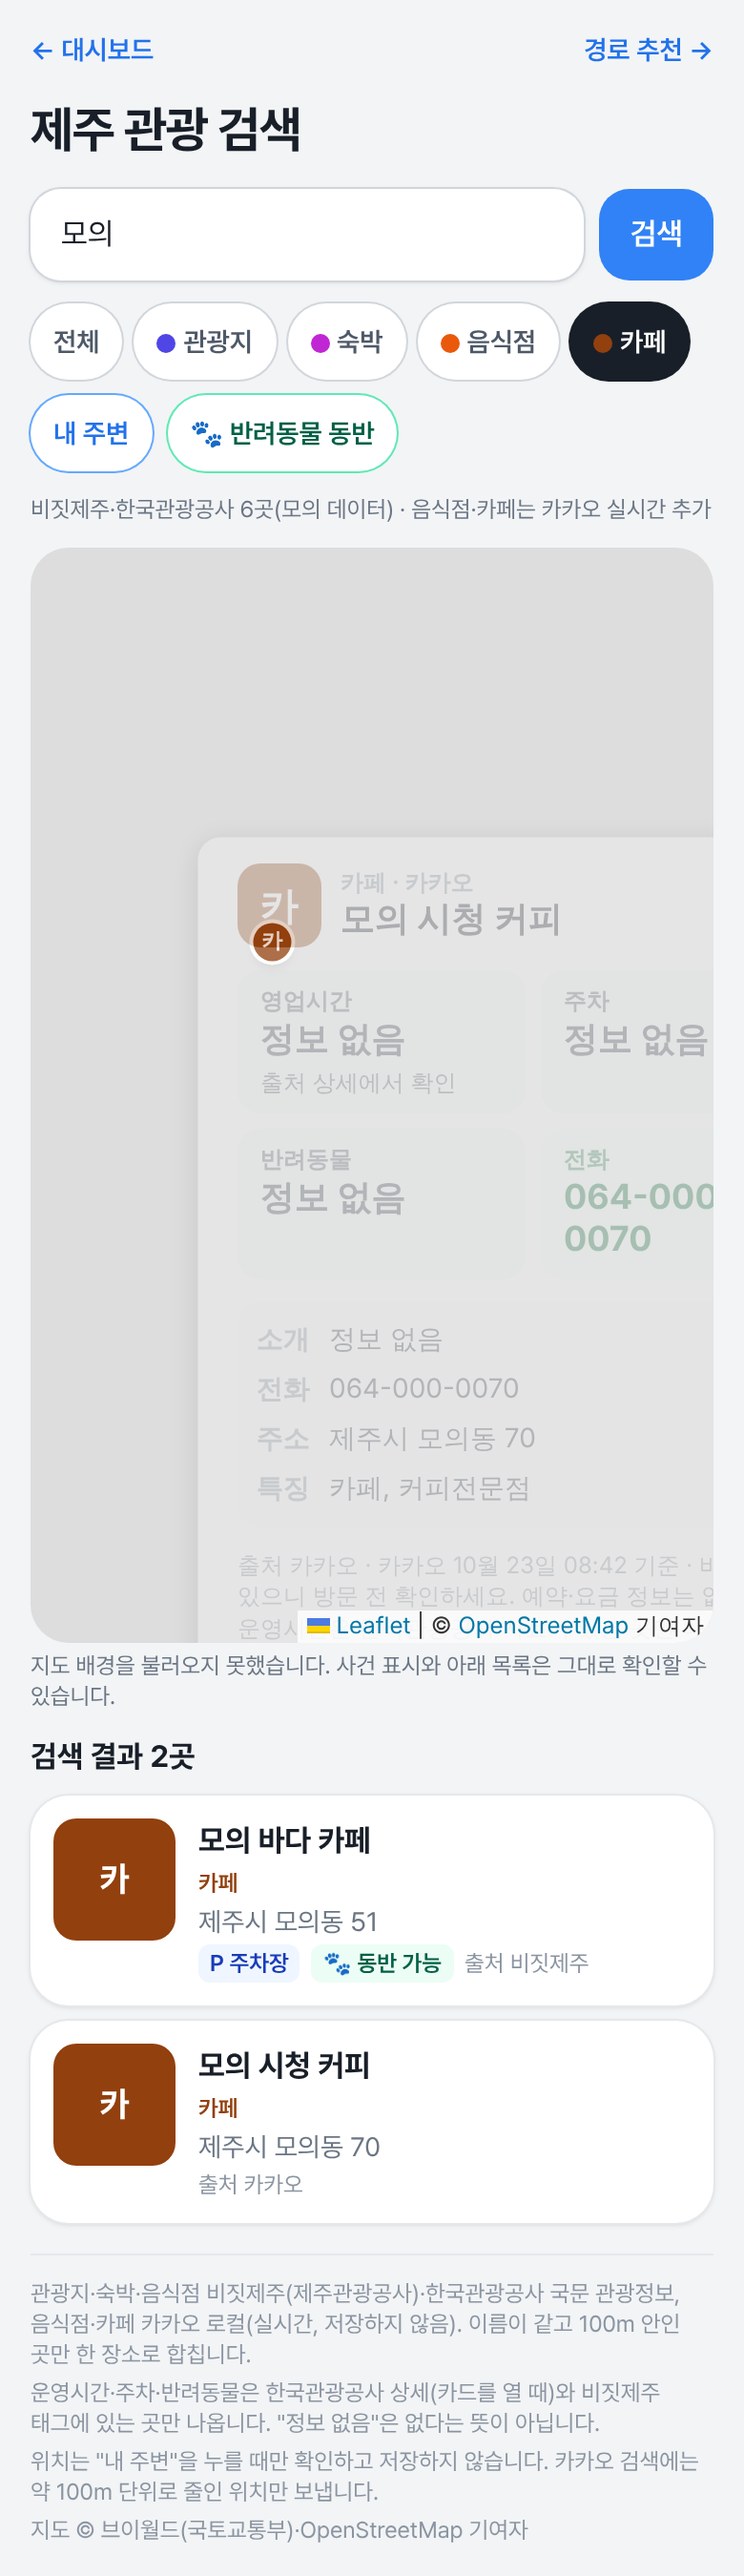
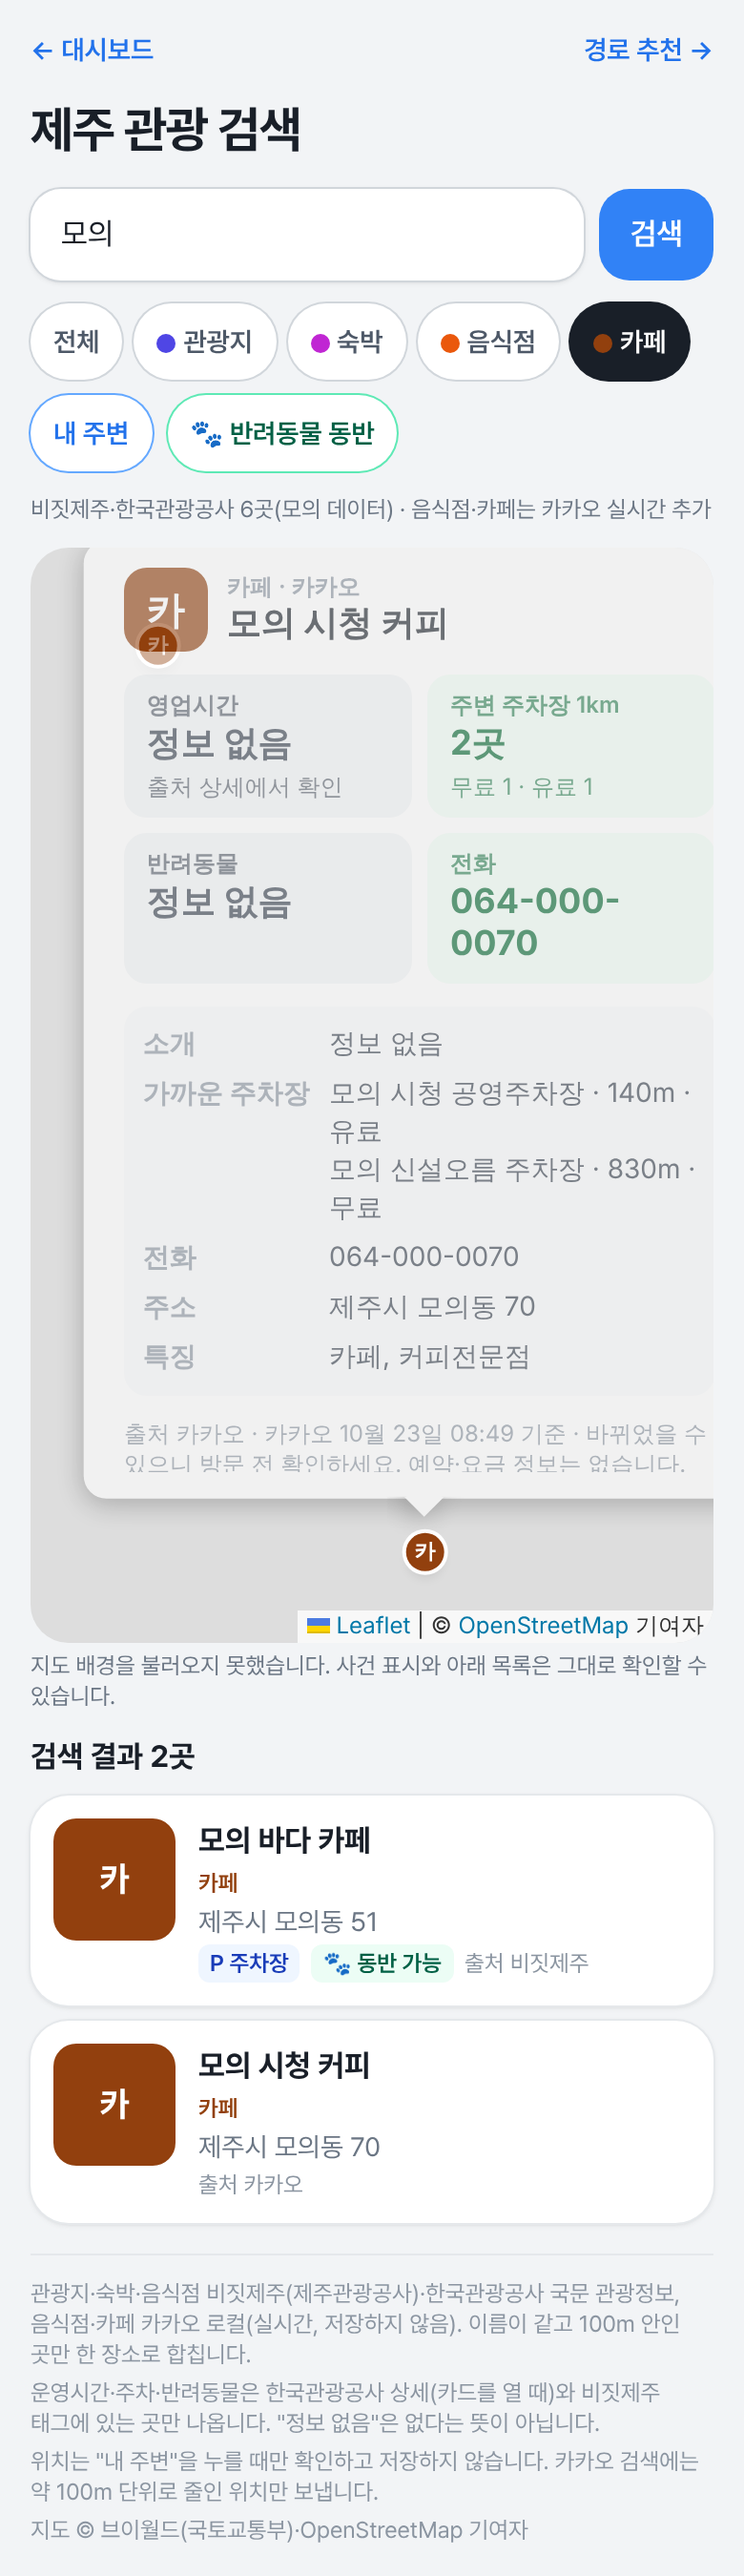
TASK-029: 주차 정보가 없으면 반경 1km 주차장 수·무료/유료·가까운 3곳(전국주차장정보표준데이터, 외부 호출 증가 없음)
사용자 "주차장 정보가 없을 경우 해당 위치 반경 1키로 주차장 검색해서 유료/무료 까지 표시"

Claude-Session: https://claude.ai/code/session_01Gur3aDTQeZh8Paf8Wfb4kJ

diff --git a/jeju-ai-traffic/web/src/features/search/searchCards.ts b/jeju-ai-traffic/web/src/features/search/searchCards.ts
@@ -1,6 +1,8 @@
 import type { Coordinate } from "../../../../shared/contracts/route";
 import { SEARCH_CATEGORIES, SEARCH_CATEGORY_LABEL, SEARCH_SOURCE_LABEL, type SearchCategory, type SearchDetailResponse, type SearchIndexResponse, type SearchRow } from "../../../../shared/contracts/search";
-import { tourParking } from "../traffic/facilityStyle";
+import type { TrafficParkingResponse } from "../../../../shared/contracts/traffic";
+import { distanceMeters } from "../../../../shared/rules/geo";
+import { PARKING_FEE_STYLE, parkingFeeKind, tourParking } from "../traffic/facilityStyle";
 import type { PopupCard } from "../map/leafletMap";
 import { formatKstTime } from "../trip/format";
 import { parkingRouteHref } from "../trip/routeLink";
@@ -65,6 +67,19 @@ export const short = (v: string, n = 26) => {
   return line.length > n ? `${line.slice(0, n - 1)}…` : line;
 };
 
+/** 전국주차장정보표준데이터 주차장(TASK-017). 받는 중·실패도 함께. */
+export type ParkingLots = TrafficParkingResponse["lots"] | "loading" | "failed";
+/** 주차 정보가 없을 때 찾는 반경(m, 사용자 요청 2026-10-23 "반경 1키로"). */
+export const NEAR_PARKING_RADIUS = 1000;
+
+/** 장소 기준 반경 1km 주차장을 가까운 순으로. */
+export function parkingNear(lat: number, lng: number, lots: TrafficParkingResponse["lots"]): { lot: TrafficParkingResponse["lots"][number]; meters: number }[] {
+  return lots
+    .map((lot) => ({ lot, meters: distanceMeters({ lat, lng }, { lat: lot[8], lng: lot[9] }) }))
+    .filter((p) => p.meters <= NEAR_PARKING_RADIUS)
+    .sort((a, b) => a.meters - b.meters);
+}
+
 /** 관광공사 자료가 있으면 그 번호(합친 곳 포함). 소개정보(운영시간·주차·반려동물)는 이 번호로 받는다. */
 export const ktoId = (row: SearchRow) => row[10].find(([s]) => s === "kto")?.[1] ?? null;
 
@@ -81,7 +96,7 @@ export function petFromText(v: string): Tile["tone"] {
  * 범위 변경(2026-10-23): 큰 칸에 운영시간·주차·반려동물. 관광공사 자료가 있으면 소개정보로, 없으면 비짓제주 태그로, 그것도 없으면 "정보 없음".
  * 버튼은 이 서비스의 경로 안내, 아래 링크는 출처 사이트와 카카오맵 길찾기(새 창).
  */
-export function placeCard(row: SearchRow, meters: number | null, at: { listBuiltAt: string | null; liveAt: string | null }, originName: string | null, detail: DetailState = null): PopupCard {
+export function placeCard(row: SearchRow, meters: number | null, at: { listBuiltAt: string | null; liveAt: string | null }, originName: string | null, detail: DetailState = null, lots: ParkingLots = "failed"): PopupCard {
   const [id, cat, name, address, lat, lng, phone, photo, intro, tags, refs, parkingTag, petTagValue] = row;
   const st = CATEGORY_STYLE[cat];
   const live = refs.some(([s]) => s === "kakaoLocal");
@@ -95,12 +110,24 @@ export function placeCard(row: SearchRow, meters: number | null, at: { listBuilt
     ? { label: HOURS_LABEL[cat], value: short(d.hours), sub: d.rest ? `쉬는날 ${short(d.rest, 18)}` : "한국관광공사", tone: "neutral" }
     : { label: HOURS_LABEL[cat], value: waiting ?? "정보 없음", sub: waiting ? undefined : detail === null ? "출처 상세에서 확인" : "한국관광공사", tone: "neutral" };
   const parkKind = d?.parking ? tourParking(d.parking) : "UNKNOWN";
+  // 주차 정보가 없으면(관광공사·비짓제주 모두) 반경 1km 주차장을 찾아 수와 유료·무료를 보인다(사용자 요청 2026-10-23).
+  const noParkingInfo = parkKind === "UNKNOWN" && !parkingTag && !d?.parking && detail !== "loading";
+  const near = noParkingInfo && Array.isArray(lots) ? parkingNear(lat, lng, lots) : null;
+  const feeCount = (k: ReturnType<typeof parkingFeeKind>) => (near ?? []).filter((p) => parkingFeeKind(p.lot[7]) === k).length;
+  const feeSub = near?.length ? [`무료 ${feeCount("FREE")}`, `유료 ${feeCount("PAID")}`, ...(feeCount("MIXED") ? [`일부유료 ${feeCount("MIXED")}`] : [])].join(" · ") : "";
   const parking: Tile =
     parkKind !== "UNKNOWN"
       ? { label: "주차", value: parkKind === "YES" ? "가능" : "불가", sub: "한국관광공사", tone: parkKind === "YES" ? "good" : "bad" }
       : parkingTag
         ? { label: "주차", value: "주차장 있음", sub: "비짓제주 태그", tone: "good" }
-        : { label: "주차", value: d?.parking ? short(d.parking, 14) : (waiting ?? "정보 없음"), sub: d?.parking ? "한국관광공사" : undefined, tone: "neutral" };
+        : d?.parking
+          ? { label: "주차", value: short(d.parking, 14), sub: "한국관광공사", tone: "neutral" }
+          : near
+            ? { label: "주변 주차장 1km", value: near.length ? `${near.length.toLocaleString("ko-KR")}곳` : "없음", sub: near.length ? feeSub : "반경 1km 안", tone: near.length ? "good" : "neutral" }
+            : { label: "주차", value: waiting ?? (noParkingInfo && lots === "loading" ? "확인 중…" : "정보 없음"), tone: "neutral" };
+  const nearRows = near?.length
+    ? [{ label: "가까운 주차장", lines: near.slice(0, 3).map(({ lot, meters: m }) => `${lot[1] || "이름 없는 주차장"} · ${distText(m)} · ${PARKING_FEE_STYLE[parkingFeeKind(lot[7])].label || "요금 정보 없음"}`) }]
+    : [];
   const pet: Tile = d?.pet
     ? { label: "반려동물", value: petFromText(d.pet) === "good" ? "동반 가능" : petFromText(d.pet) === "bad" ? "동반 불가" : short(d.pet, 14), sub: "한국관광공사", tone: petFromText(d.pet) }
     : petTagValue
@@ -120,6 +147,7 @@ export function placeCard(row: SearchRow, meters: number | null, at: { listBuilt
       ...(d?.hours ? [{ label: HOURS_LABEL[cat], lines: lines(d.hours) }] : []),
       ...(d?.rest ? [{ label: "쉬는날", lines: lines(d.rest) }] : []),
       ...(d?.parking ? [{ label: "주차 안내", lines: lines(d.parking) }] : []),
+      ...nearRows,
       ...(d?.pet ? [{ label: "반려동물", lines: lines(d.pet) }] : []),
       { label: "전화", lines: [phone || "정보 없음"] },
       ...(d?.info ? [{ label: "문의", lines: lines(d.info) }] : []),
@@ -128,6 +156,7 @@ export function placeCard(row: SearchRow, meters: number | null, at: { listBuilt
     ],
     footer: [
       `출처 ${sourceNames(row)}${times ? ` · ${times} 기준` : ""} · 바뀌었을 수 있으니 방문 전 확인하세요. 예약·요금 정보는 없습니다.`,
+      near ? "주변 주차장은 전국주차장정보표준데이터(직선 거리 1km, 실시간 남은 칸 없음)입니다." : "",
       detail === null ? "운영시간은 한국관광공사 자료가 있는 곳만 나옵니다. 아래 링크의 상세에서 확인하세요." : "",
       detail === "failed" ? "운영시간·주차 정보를 불러오지 못했습니다. 다시 눌러 보세요." : "",
     ]

diff --git a/jeju-ai-traffic/web/src/features/search/SearchPage.tsx b/jeju-ai-traffic/web/src/features/search/SearchPage.tsx
@@ -4,10 +4,10 @@ import { SEARCH_CATEGORY_LABEL, SEARCH_NEAR_RADIUS, SEARCH_QUERY_MAX_LENGTH, typ
 import { mergePlaces } from "../../../../shared/rules/placeMerge";
 import { searchPlaces, type SearchHit } from "../../../../shared/rules/placeSearch";
 import { getCurrentLocation } from "../../services/geolocation";
-import { fetchSearchDetail, fetchSearchIndex, fetchSearchLive } from "../../services/trafficApi";
+import { fetchSearchDetail, fetchSearchIndex, fetchSearchLive, fetchTrafficParking } from "../../services/trafficApi";
 import type { FacilityPoint } from "../map/leafletMap";
 import { IncidentMap } from "../traffic/IncidentMap";
-import { AREAS, CATEGORY_STYLE, CHIPS, chipLabel, distText, feedLabel, ktoId, PAGE, placeCard, sourceNames, SUGGESTIONS, type Cat, type Origin } from "./searchCards";
+import { AREAS, CATEGORY_STYLE, CHIPS, chipLabel, distText, feedLabel, ktoId, PAGE, placeCard, sourceNames, SUGGESTIONS, type Cat, type Origin, type ParkingLots } from "./searchCards";
 
 function readUrl(): { q: string; cat: Cat; pet: boolean } {
   const p = new URLSearchParams(window.location.search);
@@ -54,6 +54,15 @@ export function SearchPage() {
       alive = false;
     };
   }, [indexTry]);
+  // 주차 정보가 없는 곳의 반경 1km 주차장용(전국주차장정보표준데이터, CDN 7일). 페이지를 열 때 한 번.
+  const [lots, setLots] = useState<ParkingLots>("loading");
+  useEffect(() => {
+    let alive = true;
+    void fetchTrafficParking().then((r) => alive && setLots(r.ok ? r.data.lots : "failed"));
+    return () => {
+      alive = false;
+    };
+  }, []);
   const loadIndex = () => {
     setIndexLoading(true);
     setIndexError(null);
@@ -110,15 +119,15 @@ export function SearchPage() {
         // 관광공사 자료가 있으면 카드를 열 때 운영시간·주차·반려동물을 받는다(범위 변경 2026-10-23).
         ...(() => {
           const kto = ktoId(place);
-          if (!kto) return { card: placeCard(place, meters, at, origin?.name ?? null) };
+          if (!kto) return { card: placeCard(place, meters, at, origin?.name ?? null, null, lots) };
           return {
-            card: placeCard(place, meters, at, origin?.name ?? null, "loading"),
-            loadCard: () => fetchSearchDetail(kto, place[1]).then((r) => placeCard(place, meters, at, origin?.name ?? null, r.ok ? r.data : "failed")),
+            card: placeCard(place, meters, at, origin?.name ?? null, "loading", lots),
+            loadCard: () => fetchSearchDetail(kto, place[1]).then((r) => placeCard(place, meters, at, origin?.name ?? null, r.ok ? r.data : "failed", lots)),
           };
         })(),
       })),
     // eslint-disable-next-line react-hooks/exhaustive-deps -- at은 index·live에서 나온다
-    [visibleKey, index, live.at, origin],
+    [visibleKey, index, live.at, origin, lots],
   );
 
   const run = (q: string, c: Cat = cat) => {

diff --git a/jeju-ai-traffic/tests/unit/searchCards.test.ts b/jeju-ai-traffic/tests/unit/searchCards.test.ts
@@ -1,6 +1,7 @@
 import { describe, expect, it } from "vitest";
 import type { SearchRow } from "../../shared/contracts/search";
-import { petFromText, placeCard, short } from "../../web/src/features/search/searchCards";
+import type { TrafficParkingResponse } from "../../shared/contracts/traffic";
+import { parkingNear, petFromText, placeCard, short } from "../../web/src/features/search/searchCards";
 
 const ROW: SearchRow = ["kto:2755053", "RESTAURANT", "가람돌솥밥", "제주특별자치도 서귀포시 중문관광로 332", 33.2497, 126.4313, "", "", "", "", [["kto", "2755053"]], false, ""];
 const AT = { listBuiltAt: "2026-10-22T23:00:00.000Z", liveAt: null };
@@ -36,5 +37,27 @@ describe("관광 검색 상세 카드 (TASK-029 범위 변경)", () => {
     const card = placeCard(vj, 120, AT, "내 위치");
     expect(card.tiles?.map((t) => t.value)).toEqual(["정보 없음", "주차장 있음", "동반 가능", "120m"]);
     expect(card.footer).toContain("운영시간은 한국관광공사 자료가 있는 곳만 나옵니다");
+  });
+
+  it("주차 정보가 없으면 반경 1km 주차장 수와 유료·무료, 가까운 3곳", () => {
+    const lots: TrafficParkingResponse["lots"] = [
+      ["P1", "가까운 공영", "공영", "노외", "", 50, "", "유료 · 30분 1,000원", 33.5005, 126.5],
+      ["P2", "무료 주차장", "공영", "노외", "", 10, "", "무료", 33.503, 126.5],
+      ["P3", "일부 유료", "민영", "부설", "", 5, "", "혼합", 33.5, 126.506],
+      ["P4", "먼 주차장", "공영", "노외", "", 5, "", "무료", 33.52, 126.5],
+    ];
+    expect(parkingNear(33.5, 126.5, lots).map((p) => p.lot[0])).toEqual(["P1", "P2", "P3"]);
+    const kakao: SearchRow = ["kakaoLocal:K", "CAFE", "카페", "", 33.5, 126.5, "", "", "", "", [["kakaoLocal", "K"]], false, ""];
+    const card = placeCard(kakao, null, AT, null, null, lots);
+    expect(card.tiles?.[1]).toMatchObject({ label: "주변 주차장 1km", value: "3곳", sub: "무료 1 · 유료 1 · 일부유료 1" });
+    expect(card.rows.find((r) => r.label === "가까운 주차장")?.lines[0]).toBe("가까운 공영 · 60m · 유료");
+    // 비짓제주 주차장 태그나 관광공사 주차 정보가 있으면 찾지 않는다
+    const tagged: SearchRow = [...kakao];
+    tagged[11] = true;
+    expect(placeCard(tagged, null, AT, null, null, lots).tiles?.[1]?.value).toBe("주차장 있음");
+    // 관광공사 상세를 받는 중에는 기다린다, 주차장 자료를 받는 중이면 확인 중
+    expect(placeCard(ROW, null, AT, null, "loading", lots).tiles?.[1]?.value).toBe("확인 중…");
+    expect(placeCard(kakao, null, AT, null, null, "loading").tiles?.[1]?.value).toBe("확인 중…");
+    expect(placeCard(kakao, null, AT, null, null, []).tiles?.[1]).toMatchObject({ value: "없음", sub: "반경 1km 안" });
   });
 });

diff --git a/jeju-ai-traffic/tests/e2e/tourSearch.spec.ts b/jeju-ai-traffic/tests/e2e/tourSearch.spec.ts
@@ -59,6 +59,11 @@ test.describe("관광 검색 /search (TASK-029)", () => {
     const kakaoCard = page.locator(".leaflet-popup .popup-card-lg");
     await expect(kakaoCard.locator(".popup-card-tile").filter({ hasText: "영업시간" })).toContainText("정보 없음");
     await expect(kakaoCard).toContainText("운영시간은 한국관광공사 자료가 있는 곳만 나옵니다");
+    // 주차 정보가 없으면 반경 1km 주차장(표준데이터 모의 2곳: 유료 1·무료 1)
+    const nearTile = kakaoCard.locator(".popup-card-tile").filter({ hasText: "주변 주차장 1km" });
+    await expect(nearTile).toContainText("2곳");
+    await expect(nearTile).toContainText("무료 1 · 유료 1");
+    await expect(kakaoCard).toContainText("모의 시청 공영주차장");
     await shot(page, "TASK-029-05-kakao-card-390");
     // 반려동물 동반 거르기: 표시가 있는 곳만, 주소에 pet=1
     await page.getByRole("button", { name: "🐾 반려동물 동반" }).click();

diff --git a/jeju-ai-traffic/reports/TASK-029-RESULT.md b/jeju-ai-traffic/reports/TASK-029-RESULT.md
@@ -77,7 +77,7 @@
 ## 5. 테스트·빌드
 | 명령 | 결과 |
 |---|---|
-| `npm run check:release` | 통과 — 단위 **364건**(신규 19, 범위 변경 포함), lint·typecheck·build, 비밀정보 의심 없음, 취약점 0건 |
+| `npm run check:release` | 통과 — 단위 **365건**(신규 20, 범위 변경·주변 주차장 포함), lint·typecheck·build, 비밀정보 의심 없음, 취약점 0건 |
 | `npx playwright test` | **57건** 통과(신규 3, 범위 변경 확인 추가, 모의 공급자) |
 
 ## 6. 비용·보안
@@ -125,6 +125,17 @@
   - `web/src/services/trafficApi.ts`: `fetchSearchDetail`
   - 테스트: `tests/unit/tourSearch.test.ts`, `tests/unit/searchCards.test.ts`(신규), `tests/e2e/tourSearch.spec.ts`
   - 캡처: `reports/screenshots/TASK-029-05-kakao-card-390.png`, `README.md`
+
+### 주차 정보가 없을 때 반경 1km 주차장 (결과 검토 중 사용자 요청, 2026-10-23)
+- **근거**: 사용자 "주차장 정보가 없을 경우 해당 위치 반경 1키로 주차장 검색해서 유료/무료 까지 표시".
+- **동작**
+  - 관광공사 주차 정보와 비짓제주 주차장 태그가 모두 없는 곳은, 주차 칸이 **"주변 주차장 1km N곳 · 무료 a · 유료 b(· 일부유료 c)"**로 바뀝니다.
+  - 카드 아래에는 가까운 주차장 3곳을 "이름 · 거리 · 무료/유료"로 보입니다.
+  - 반경 안에 없으면 "없음 · 반경 1km 안"으로 보입니다.
+  - 관광공사 상세를 받는 동안에는 "확인 중…"을 보이고, 받은 결과에 주차 정보가 없을 때만 주변 주차장을 찾습니다.
+- **자료**: 이미 쓰는 전국주차장정보표준데이터(TASK-017, CDN 7일)를 검색 페이지를 열 때 한 번 받습니다. **외부 호출과 비용은 늘지 않습니다.** 직선 거리이며, 실시간 남은 칸 정보는 없다고 카드에 안내합니다.
+- **변경 파일**: `web/src/features/search/searchCards.ts`·`SearchPage.tsx`, `tests/unit/searchCards.test.ts`, `tests/e2e/tourSearch.spec.ts`, 캡처 `TASK-029-05-kakao-card-390.png`.
+- **테스트**: 단위 365건, 브라우저 57건 통과.
 
 ## 9. 확인 요청
 - Preview에서 대시보드 → **관광 검색** → 검색(예: "성산일출봉", "흑돼지") → 카테고리 → 결과 → 상세 카드(운영시간·주차·반려동물 칸), **🐾 반려동물 동반** 거르기, **내 주변**을 봐 주세요.

diff --git a/jeju-ai-traffic/DECISIONS.md b/jeju-ai-traffic/DECISIONS.md
@@ -294,3 +294,4 @@
 | 2026-10-23 | TASK-029 | 결과 검토 중 수정 | (사용자 Preview 캡처) "지도가 안나오는데?" | 결과 검토 | 검색 뒤 지도 높이 class가 바뀌며 React가 Leaflet의 leaflet-container class를 지워 바탕 지도가 깨짐 → 높이는 바깥 상자로, 크기 바뀌면 invalidateSize. 브라우저 테스트 추가. TASK-029 범위 안 수정 |
 | 2026-10-23 | TASK-029 | 범위 변경 | "각 관광지, 식당, 카페, 숙박시설에 운영시간, 주차장 정보 표시 가능?" → "여기에 반려동물 동반 여부도 표시 가능?" → "범위 변경: TASK-029 운영시간·주차·반려동물 추가" | 결과 검토 → 진행 중 | 관광공사 자료가 있는 곳은 카드를 열 때 소개정보(운영시간·쉬는날·주차·관광지 반려동물), 비짓제주는 주차·반려동물 태그, 카카오는 정보 없음+링크. 반려동물 거르기. 시험 호출 최대 2건(임시 함수 `api/search-probe.ts`, main 제외). 관광공사 반려동물 동반여행 API는 활용신청 전이라 제외 |
 | 2026-10-23 | TASK-029 | 시험 호출 결과·결과 보고 | (사용자가 Preview에서 /api/search-probe를 열어 결과 전달) | 진행 중 → 결과 검토 | 2건(승인 2건): 관광공사 음식점 소개정보 항목 opentimefood·restdatefood·parkingfood·infocenterfood 확인(예상과 같음). 상세 카드 큰 칸 운영시간·주차·반려동물, 목록 P 주차장·🐾 동반 가능, 반려동물 거르기(pet=1). 시험 함수 삭제. `reports/TASK-029-RESULT.md` 8절. main 미반영 |
+| 2026-10-23 | TASK-029 | 결과 검토 중 요청 반영 | "주차장 정보가 없을 경우 해당 위치 반경 1키로 주차장 검색해서 유료/무료 까지 표시" | 결과 검토 | 범위 변경(운영시간·주차·반려동물)의 주차 표시 보완. 관광공사·비짓제주 주차 정보가 없으면 전국주차장정보표준데이터(이미 사용, CDN 7일)로 반경 1km 주차장 수·무료/유료·가까운 3곳. 외부 호출·비용 증가 없음. `reports/TASK-029-RESULT.md` 8절 |
